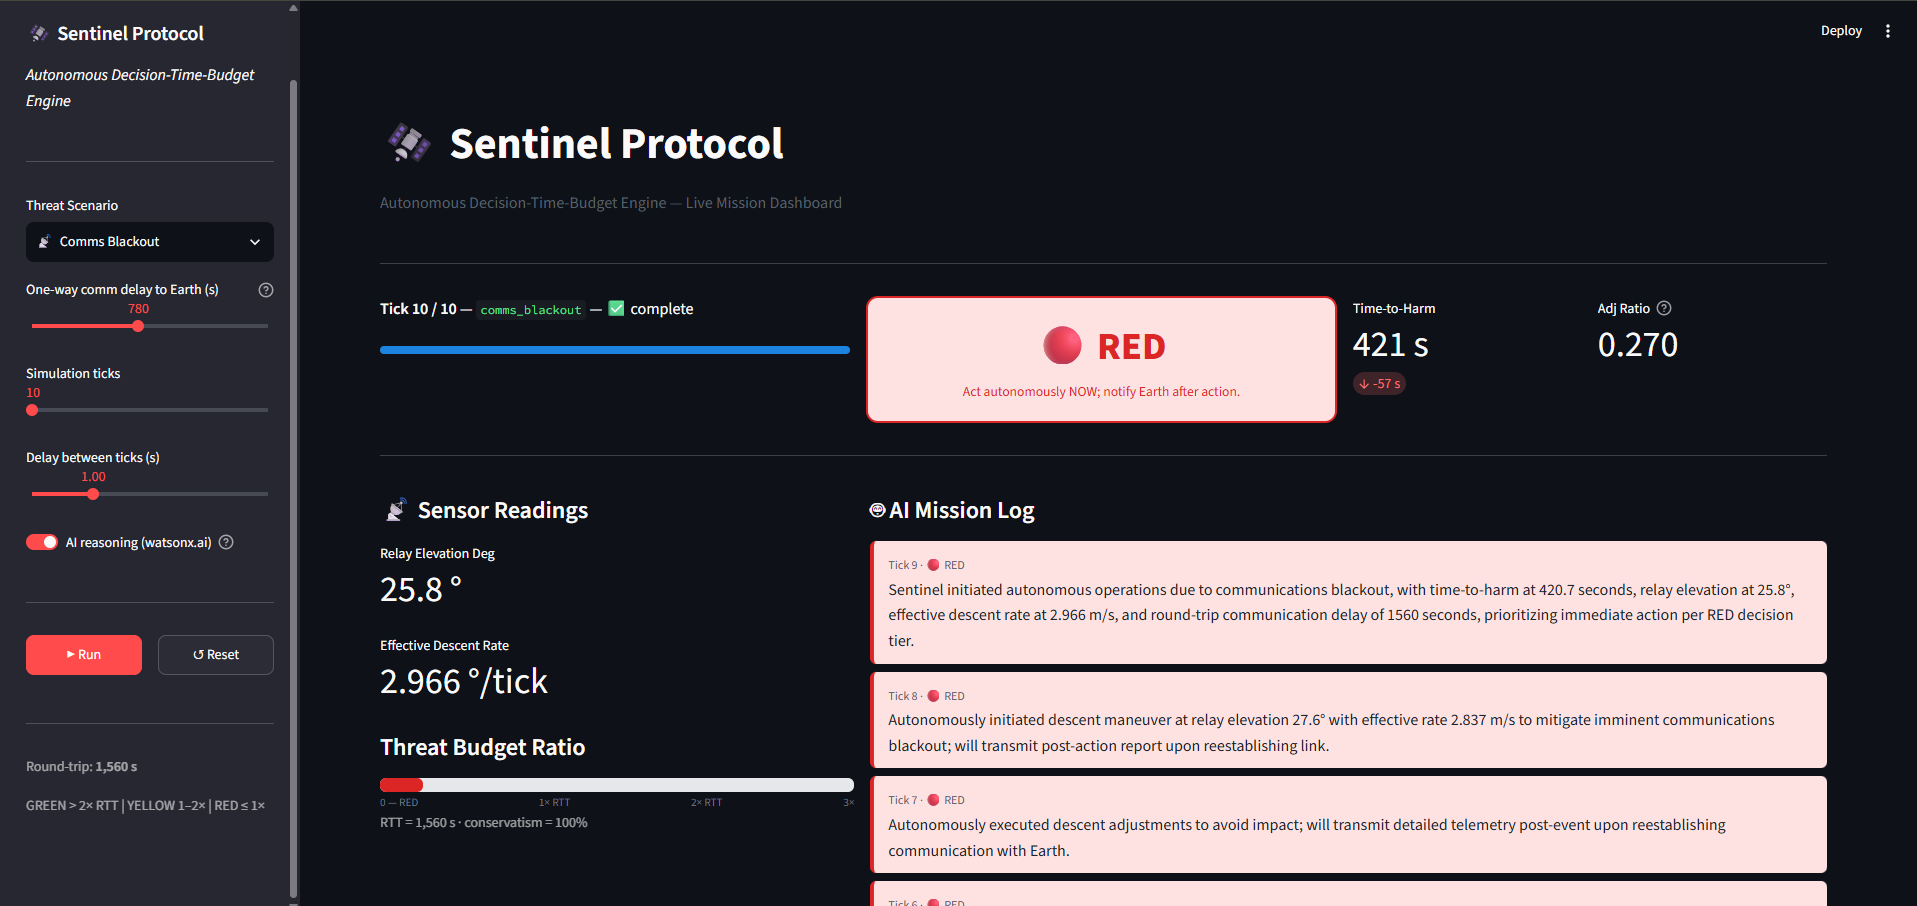
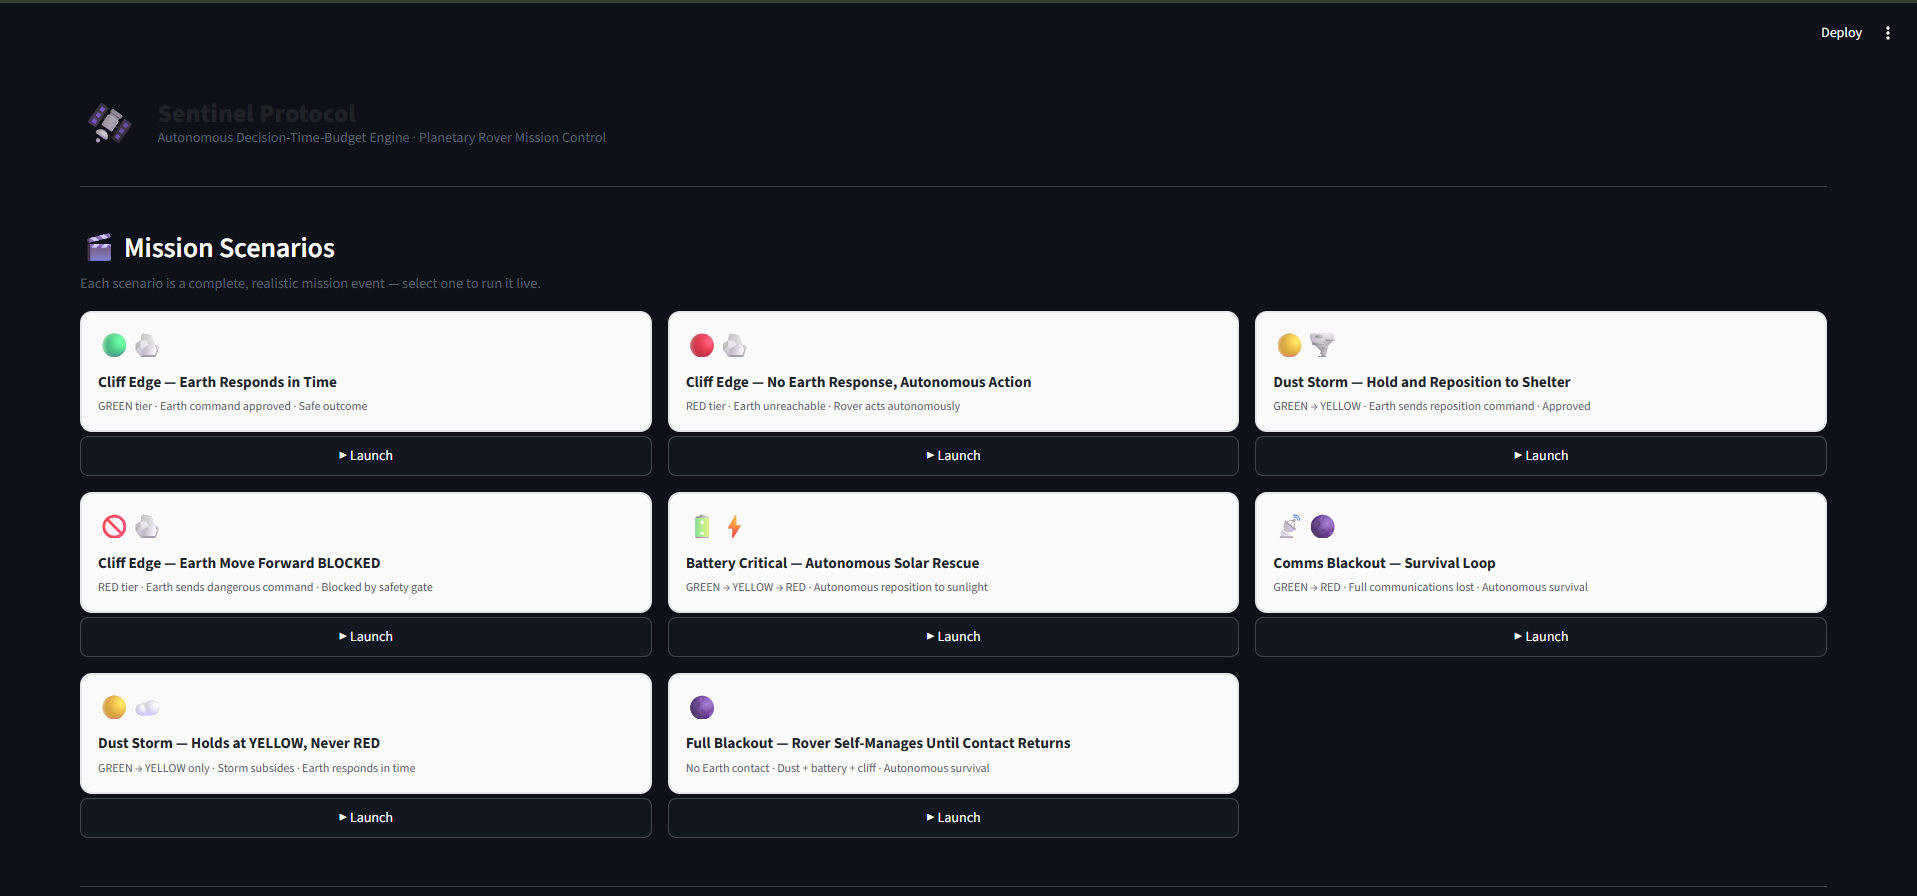
fixing architecture diagram

diff --git a/README.md b/README.md
@@ -55,7 +55,7 @@ Sentinel Protocol runs as the onboard intelligence of a rover carrying both its 
 Both roles are implementations of a single underlying principle: **no action — whether ordered by Earth or generated by the rover itself — executes without first passing a safety check.**
 
 <p align="center">
-  <img src="assets/architecture-diagram.svg" alt="Sentinel Protocol architecture diagram" width="680"/>
+  <img src="assets/architecture-diagram.png" alt="Sentinel Protocol architecture diagram" width="680"/>
 </p>
 
 ## Threat Scenarios
@@ -238,7 +238,7 @@ Sentinel Protocol/
 │   └── anomaly_model.joblib          ← Pre-trained IsolationForest — no retraining needed
 ├── assets/
 │   ├── logo.svg
-│   ├── architecture-diagram.svg
+│   ├── architecture-diagram.png
 │   └── dashboard-screenshot.png
 ├── dashboard.py                      ← Streamlit mission-control dashboard (pure UI layer)
 ├── requirements.txt
